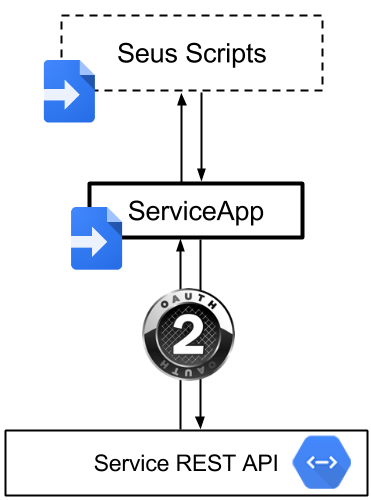
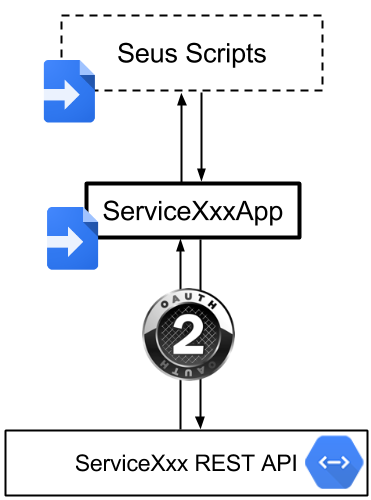
Adding case bkper

Changed region(s): [[0.1186, 0.36, 0.7709, 0.54], [0.2075, 0.87, 0.9784, 0.99], [0.8005, 0.36, 0.8302, 0.48]]

diff --git a/AppsScriptAndAppEngine/template.html b/AppsScriptAndAppEngine/template.html
@@ -20,6 +20,8 @@ URL: https://code.google.com/p/io-2012-slides
 
   <link href="../bootstrap/bootstrap.css" rel="stylesheet">
   <link href="../bootstrap/bootstrap-responsive.css" rel="stylesheet">
+  <link rel="stylesheet"href="https://ssl.gstatic.com/docs/script/css/add-ons.css">
+
 
   <link rel="stylesheet" media="all" href="theme/css/default.css">
   <link rel="stylesheet" media="only screen and (max-device-width: 480px)" href="theme/css/phone.css">
@@ -122,6 +124,7 @@ URL: https://code.google.com/p/io-2012-slides
         <li>Mesma infraestrutura que o Google utiliza em suas API's</li>
         <li>Autenticação via OAuth2</li>
         <li>Versionamento da API</li>
+        <li>Geração de código para clientes</li>
         <li>REST Console</li>
       </ul>
     </article>
@@ -151,7 +154,7 @@ URL: https://code.google.com/p/io-2012-slides
       </ul>
       <p><img src='images/ideia.jpg'/>Idéia:</p>
       <ul class="build">
-        <li style='font-size: 40pt'>ServiceApp (Library)</li>
+        <li> <span  style='font-size: 35pt'>XxxxxApp</span> (assim como MailApp, SpreadsheetApp, DocumentsApp etc)</li>
       </ul>
     </article>
   </slide>
@@ -164,14 +167,14 @@ URL: https://code.google.com/p/io-2012-slides
 
   <slide>
     <hgroup>
-      <h2>OAuth2 - Storing tokens</h2>
+      <h2><img src='images/oauth2.png'/> &nbsp;OAuth2 - Storing tokens</h2>
     </hgroup>
     <article>
       <pre class="prettyprint" data-lang="javascript">
 
         function storeTokens(refresh, access) {
 
-          <b>// Use os Properties do usuário para armazenar os tokens.</b>
+          <b>// Use UserProperties to safely store tokens</b>
           <b>var userProperties = PropertiesService.getUserProperties();</b>
 
           var tokens = {refreshToken: refresh, accessToken: access};
@@ -182,20 +185,21 @@ URL: https://code.google.com/p/io-2012-slides
 
   <slide>
     <hgroup>
-      <h2>OAuth2 - Calling API</h2>
+      <h2><img src='images/oauth2.png'/> &nbsp;OAuth2 - Calling API</h2>
     </hgroup>
     <article>
       <pre class="prettyprint" data-lang="javascript">
 
         function callAPI() {
-          //Busca o token nos properties (busca novo token se expirado)
+          //Gets token from UserProperties,
+          //exchanging the refresh token by a fresh access token, if expired
           var accessToken = getAccessToken();
-          var options = {method : "GET"}
+          var options = {method : "[ GET | POST | PUT | DELETE ]"}
 
-          <b>//Adiciona o token no header</b>
+          <b>//Add access token to request header</b>
           <b>options.headers =  {Authorization: "Bearer " + accessToken};</b>
 
-          var apiURL = "https://bkper-hrd.appspot.com/_ah/api/[API_NAME]/[VERSION]/[PATH]";
+          var apiURL = "https://[APP_ID].appspot.com/_ah/api/[API_NAME]/[VERSION]/[PATH]";
           var responseText = UrlFetchApp.fetch(apiURL, options).getContentText();
           return responseText;
         }
@@ -205,6 +209,13 @@ URL: https://code.google.com/p/io-2012-slides
     </article>
   </slide>
 
+  <slide class="segue dark nobackground">
+    <aside class="gdbar"><img src="images/logo_bkper_128x128.png"></aside>
+    <hgroup class="auto-fadein">
+      <h2>Case: bkper</h2>
+      <h3>HUB/Backbone contábil e financeiro para Google Apps</h3>
+    </hgroup>
+  </slide>
 
 
   <slide>
